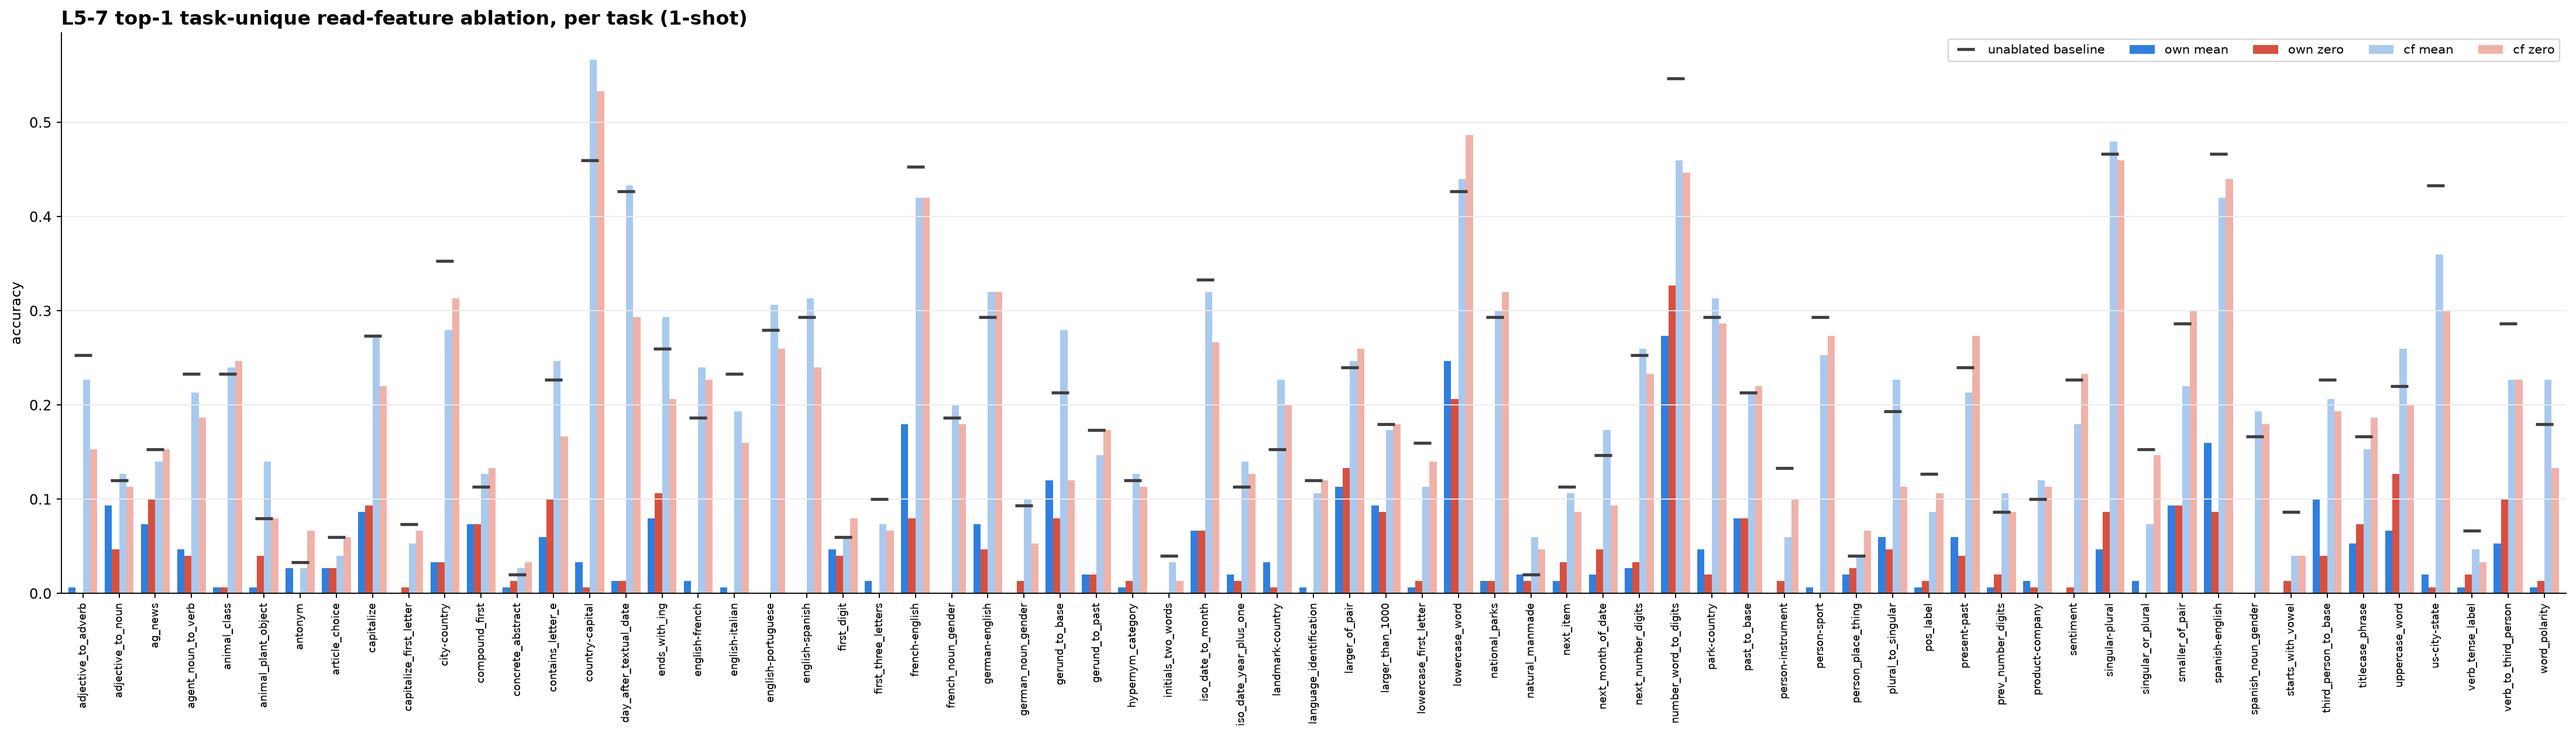
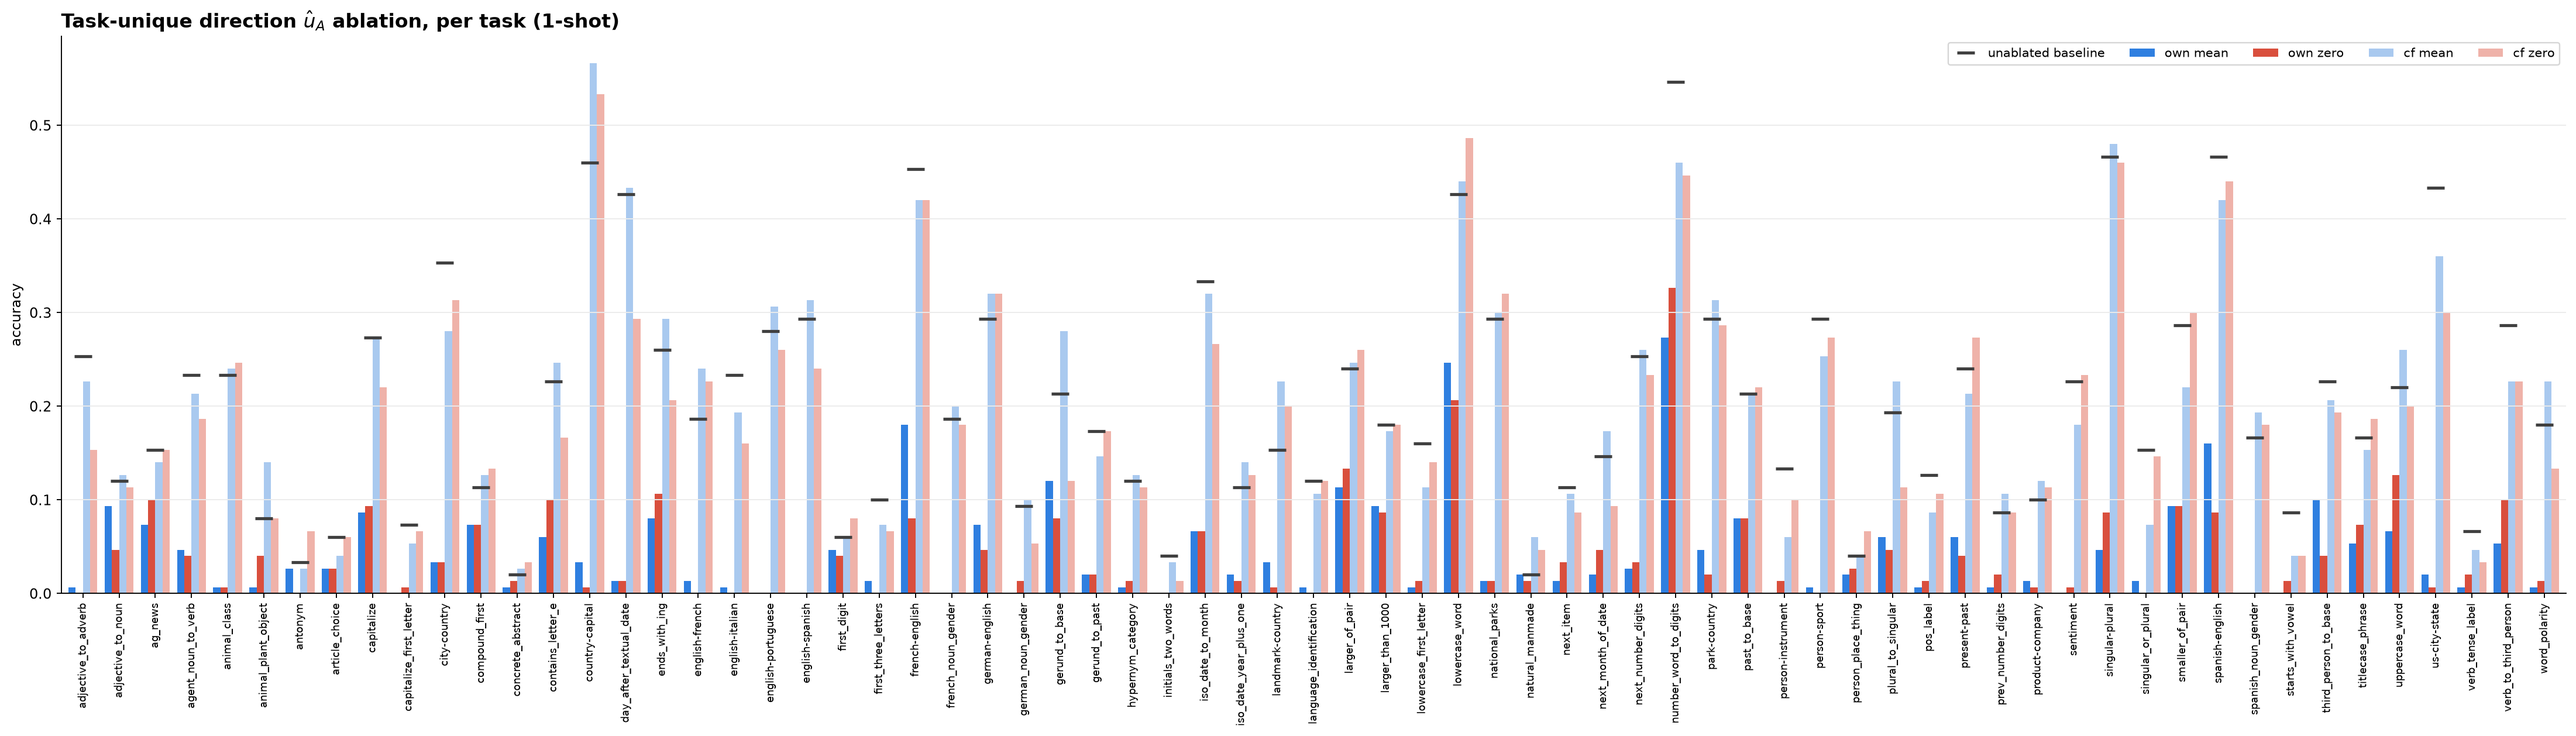
Claim 3 ablation figure: simple 3-bar headline (unablated / own u_hat / counterfactual u_hat), stale L6-9 labels removed

Changed region(s): [[0.7468, 0.031, 0.9957, 0.093], [0.0311, 0.0, 0.28, 0.062], [0.0, 0.403, 0.0311, 0.434]]

diff --git a/src/eval_scripts/plot_69_taskunique_L5to7_top1.py b/src/eval_scripts/plot_69_taskunique_L5to7_top1.py
@@ -75,7 +75,8 @@ def main():
 
     order = ["mean_ablation_mr157", "cf_mean_ablation_mr157",
              "zero_ablation_mr157", "cf_zero_ablation_mr157"]
-    short = {c: ("cf " if c.startswith("cf_") else "own ") + "L6-9" for c in order}
+    DIR = "$\\hat u_A$" if _MR else "$v_1$"
+    short = {c: ("counterfactual task's " if c.startswith("cf_") else "own ") + DIR for c in order}
     fig, axes = plt.subplots(1, 2, figsize=(11, 5.8), dpi=200, sharey=True)
     for ax, n in zip(axes, (1, 6)):
         xs = np.array([0, 1, 2.6, 3.6])
@@ -101,11 +102,37 @@ def main():
         for s in ("top", "right"):
             ax.spines[s].set_visible(False)
     axes[0].set_ylabel("accuracy (T=1 sampled exact match, mean over 69 tasks)", fontsize=11)
-    fig.suptitle("Task-unique (mean-removed, layers 5-7 only) top-1 read-feature ablation "
-                 "(all layers, all demo-label tokens)",
-                 fontsize=13.5, fontweight="bold")
+    fig.suptitle(("Task-unique direction " + DIR + " (mean of carrier-removed L5–7 read features) ablated "
+                  "at every demo target token, every block") if _MR else
+                 "Task-unique (carrier-removed, layers 5-7 only) top-1 SVD direction ablation (all layers, all demo target tokens)",
+                 fontsize=12.5, fontweight="bold")
     fig.tight_layout(rect=[0, 0.02, 1, 0.94])
-    fig.savefig(OUT / "aggregate_bars.png", bbox_inches="tight")
+    fig.savefig(OUT / "aggregate_bars_full.png", bbox_inches="tight")
+    plt.close(fig)
+
+    # ---- SIMPLE headline: mean-ablation only — unablated | own direction | counterfactual direction ----
+    INK, MUTED = "#181c1e", "#5d6771"
+    fig, axes = plt.subplots(1, 2, figsize=(9.6, 4.4), dpi=150, sharey=True)
+    fig.patch.set_facecolor("white")
+    for ax, n in zip(axes, (1, 6)):
+        ax.set_facecolor("white")
+        vals = [mean_of(f"n{n}_baseline"), mean_of(f"n{n}_mean_ablation_mr157"), mean_of(f"n{n}_cf_mean_ablation_mr157")]
+        bars = ax.bar([0, 1, 2], vals, color=["0.45", "#7c3aad", "#c7b3e3"], width=0.62, zorder=3)
+        for b, v in zip(bars, vals):
+            ax.text(b.get_x() + b.get_width() / 2, v + 0.012, f"{v:.2f}", ha="center", fontsize=12, fontweight="bold", color=INK)
+        ax.set_xticks([0, 1, 2], ["unablated", "ablate own\n" + DIR, "ablate counterfactual\ntask's " + DIR], fontsize=10.5)
+        ax.set_title(f"{n}-shot prompts", fontsize=12, loc="left", color=INK)
+        ax.grid(axis="y", color="#e8eae6", lw=0.8, zorder=0)
+        for s_ in ("top", "right"):
+            ax.spines[s_].set_visible(False)
+        for s_ in ("left", "bottom"):
+            ax.spines[s_].set_color("#c9ccc7")
+        ax.tick_params(colors=MUTED, labelsize=10)
+    axes[0].set_ylabel("task accuracy (mean, 69 tasks)", fontsize=11, color=INK)
+    axes[0].set_ylim(0, max(mean_of("n6_baseline"), mean_of("n6_cf_mean_ablation_mr157")) + 0.09)
+    fig.suptitle("Ablating one task-unique direction at the demonstration target tokens", fontsize=12.5, fontweight="bold", x=0.02, ha="left")
+    fig.tight_layout()
+    fig.savefig(OUT / "aggregate_bars.png", facecolor="white")
     plt.close(fig)
 
     for n in (1, 6):
@@ -128,7 +155,7 @@ def main():
         for s in ("top", "right"):
             ax.spines[s].set_visible(False)
         ax.legend(fontsize=9, ncol=5, loc="upper right")
-        ax.set_title(f"L5-7 top-1 task-unique read-feature ablation, per task ({n}-shot)",
+        ax.set_title(("Task-unique direction " + DIR + " ablation, per task" if _MR else "L5-7 top-1 task-unique read-feature ablation, per task") + f" ({n}-shot)",
                      fontsize=14, fontweight="bold", loc="left")
         fig.tight_layout()
         fig.savefig(OUT / f"per_task_bars_{n}shot.png", bbox_inches="tight")
